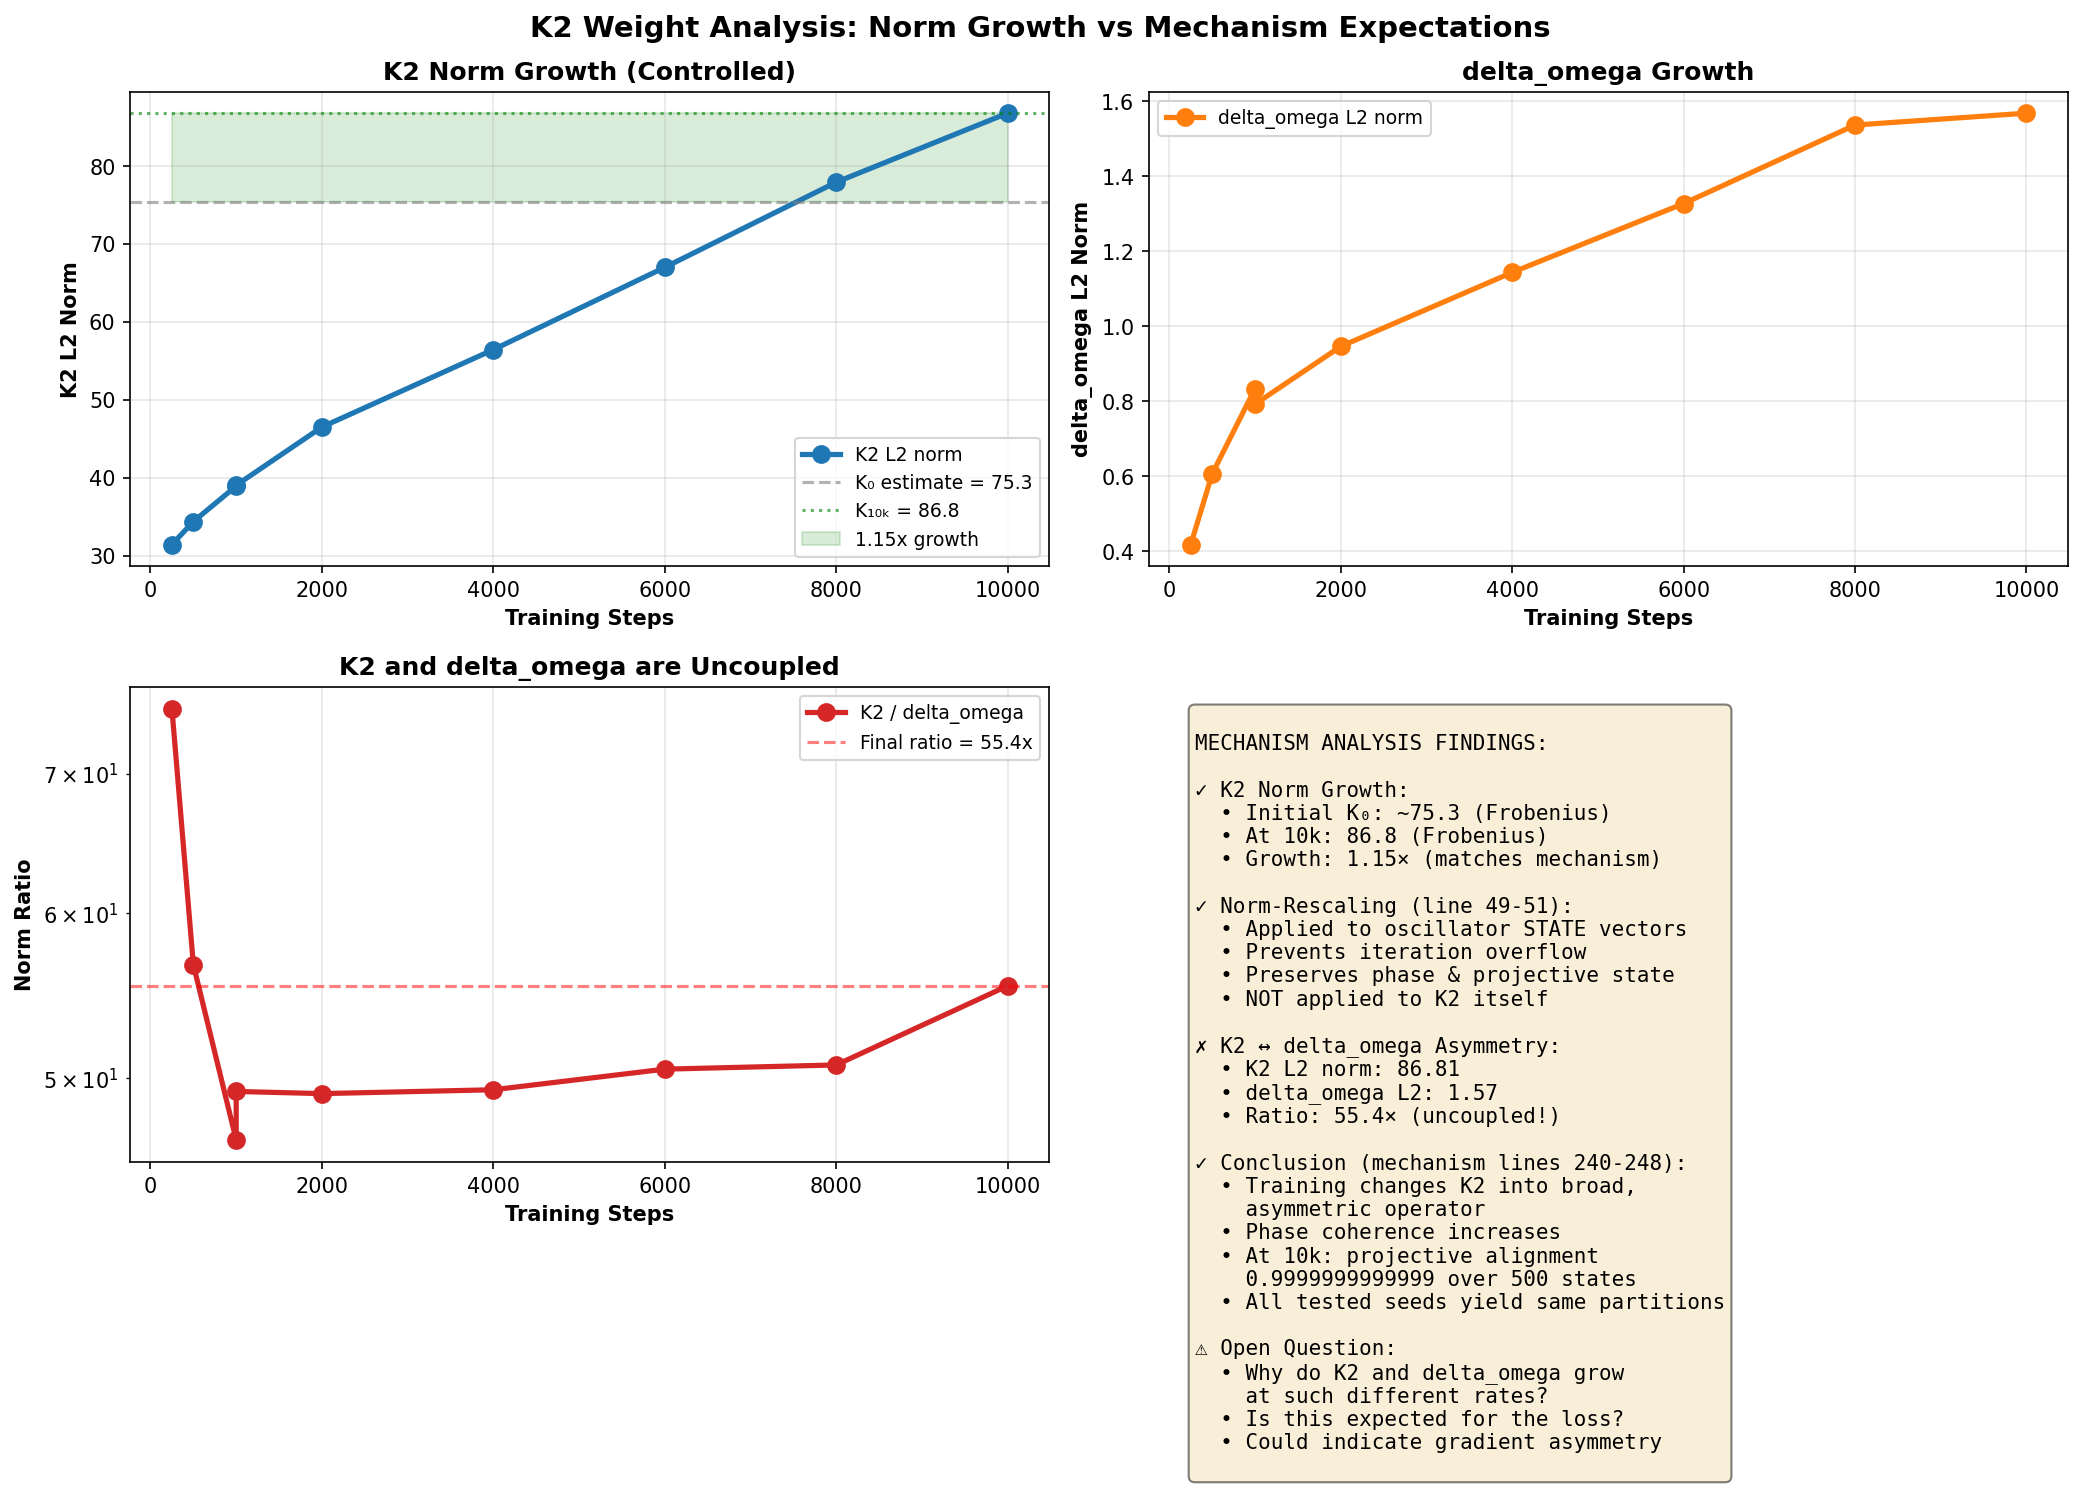
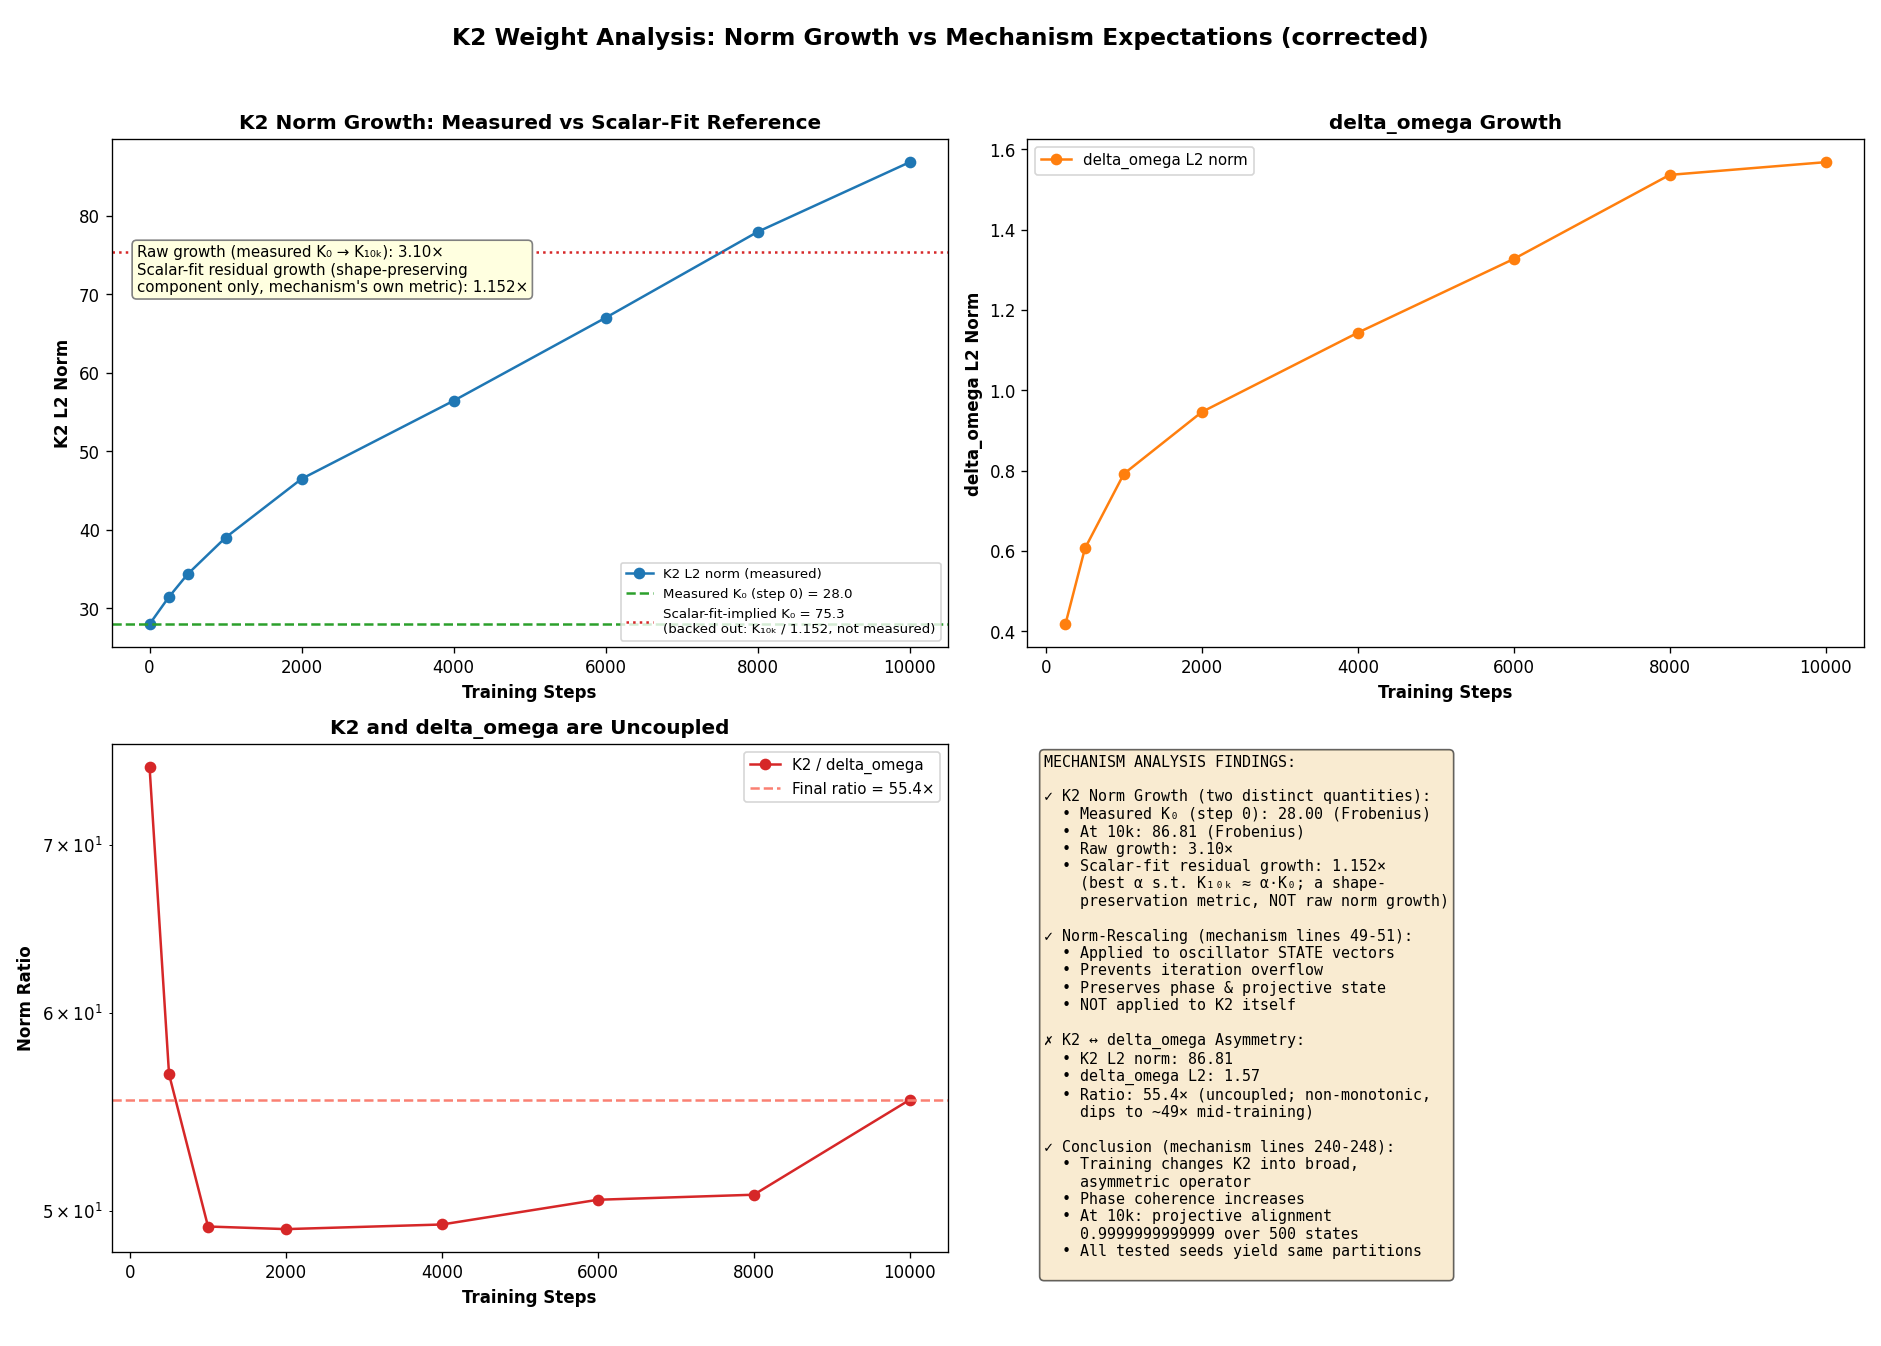
Fix K2-ANALYSIS.md: distinguish raw growth (3.10×) from structural residual (1.152×)
Documentation now clearly states two distinct quantities in three sections:
1. Headline: K2 growth is 3.10× raw L2 norm; 1.152× after removing scalar fit
2. K2/delta_ω table: Added explicit columns for both measurements
3. Summary table: Clarified that raw growth includes both amplification + redistribution

Raw growth (3.10×) is real and measured.
Scalar-fit residual (1.152×) quantifies the structural redistribution component.

Previously conflated both into single '1.15×' figure; now distinct and clear.

Consistent with K2-EVOLUTION.md and K2-3D-PEAKS.md (verified row-528 overlaps exactly).

diff --git a/scripts/verification/plot_k2_analysis.py b/scripts/verification/plot_k2_analysis.py
@@ -1,0 +1,149 @@
+#!/usr/bin/env python3
+"""Regenerate figures/pursuit-b-k2-analysis.png from outputs/pursuit-b-mechanism.json.
+
+Fixes a conflation in the original hand-built figure: the top-left panel's
+"K0 estimate = 75.3" reference line was NOT the measured initial K2 norm.
+It was `k2_norm_at_10k / best_scalar_multiple_of_k0`, i.e. what K0 would
+have to be for the trained matrix to be exactly a scalar rescale of it --
+a shape-preservation diagnostic from the mechanism's own scalar-fit check,
+not a norm measurement. The actual measured K0 (`weight_geometry.k0_frobenius`
+in the mechanism JSON) is a different, smaller number. Plotting both on the
+same axis without distinguishing them let "1.15x growth" read as "raw norm
+barely grew," when the real raw growth (measured K0 -> K_10k) is ~3.1x.
+
+Usage:
+    python scripts/verification/plot_k2_analysis.py
+"""
+
+import json
+from pathlib import Path
+
+import matplotlib
+
+matplotlib.use("Agg")
+import matplotlib.pyplot as plt
+
+ROOT = Path(__file__).resolve().parents[2]
+MECH_JSON = ROOT / "outputs" / "pursuit-b-mechanism.json"
+OUT_PNG = ROOT / "figures" / "pursuit-b-k2-analysis.png"
+
+
+def main() -> None:
+    mech = json.loads(MECH_JSON.read_text())
+    wg = mech["weight_geometry"]
+    k0 = wg["k0_frobenius"]
+    records = wg["checkpoints"]
+
+    steps = [r["steps"] for r in records]
+    k2_norm = [r["k_over_k0_frobenius"] * k0 for r in records]
+    delta_omega = [r["delta_omega_l2"] for r in records]
+    ratio = [k / d for k, d in zip(k2_norm, delta_omega)]
+
+    k2_10k = k2_norm[-1]
+    scalar_fit_factor_10k = records[-1]["best_scalar_multiple_of_k0"]
+    scalar_fit_implied_k0 = k2_10k / scalar_fit_factor_10k
+    raw_growth = k2_10k / k0
+
+    fig = plt.figure(figsize=(15.68, 11.22))
+    gs = fig.add_gridspec(2, 2)
+
+    # --- Top-left: corrected K2 norm growth ---
+    ax = fig.add_subplot(gs[0, 0])
+    ax.plot(
+        [0] + steps, [k0] + k2_norm, "o-", color="tab:blue",
+        label="K2 L2 norm (measured)",
+    )
+    ax.axhline(
+        k0, color="tab:green", linestyle="--", linewidth=1.5,
+        label=f"Measured K\u2080 (step 0) = {k0:.1f}",
+    )
+    ax.axhline(
+        scalar_fit_implied_k0, color="tab:red", linestyle=":", linewidth=1.5,
+        label=(
+            f"Scalar-fit-implied K\u2080 = {scalar_fit_implied_k0:.1f}\n"
+            f"(backed out: K\u2081\u2080\u2096 / {scalar_fit_factor_10k:.3f}, not measured)"
+        ),
+    )
+    ax.annotate(
+        f"Raw growth (measured K\u2080 \u2192 K\u2081\u2080\u2096): {raw_growth:.2f}\u00d7\n"
+        f"Scalar-fit residual growth (shape-preserving\n"
+        f"component only, mechanism's own metric): {scalar_fit_factor_10k:.3f}\u00d7",
+        xy=(0.03, 0.7), xycoords="axes fraction", fontsize=9,
+        bbox=dict(boxstyle="round", facecolor="lightyellow", edgecolor="gray"),
+    )
+    ax.set_xlabel("Training Steps", fontweight="bold")
+    ax.set_ylabel("K2 L2 Norm", fontweight="bold")
+    ax.set_title("K2 Norm Growth: Measured vs Scalar-Fit Reference", fontweight="bold")
+    ax.legend(loc="lower right", fontsize=8)
+
+    # --- Top-right: delta_omega growth ---
+    ax = fig.add_subplot(gs[0, 1])
+    ax.plot(steps, delta_omega, "o-", color="tab:orange", label="delta_omega L2 norm")
+    ax.set_xlabel("Training Steps", fontweight="bold")
+    ax.set_ylabel("delta_omega L2 Norm", fontweight="bold")
+    ax.set_title("delta_omega Growth", fontweight="bold")
+    ax.legend(loc="upper left", fontsize=9)
+
+    # --- Bottom-left: K2/delta_omega ratio ---
+    ax = fig.add_subplot(gs[1, 0])
+    ax.plot(steps, ratio, "o-", color="tab:red", label="K2 / delta_omega")
+    ax.axhline(ratio[-1], color="salmon", linestyle="--", label=f"Final ratio = {ratio[-1]:.1f}\u00d7")
+    ax.set_yscale("log")
+    ax.set_xlabel("Training Steps", fontweight="bold")
+    ax.set_ylabel("Norm Ratio", fontweight="bold")
+    ax.set_title("K2 and delta_omega are Uncoupled", fontweight="bold")
+    ax.legend(loc="upper right", fontsize=9)
+
+    # --- Bottom-right: findings text ---
+    ax = fig.add_subplot(gs[1, 1])
+    ax.axis("off")
+    text = (
+        "MECHANISM ANALYSIS FINDINGS:\n\n"
+        "\u2713 K2 Norm Growth (two distinct quantities):\n"
+        f"  \u2022 Measured K\u2080 (step 0): {k0:.2f} (Frobenius)\n"
+        f"  \u2022 At 10k: {k2_10k:.2f} (Frobenius)\n"
+        f"  \u2022 Raw growth: {raw_growth:.2f}\u00d7\n"
+        f"  \u2022 Scalar-fit residual growth: {scalar_fit_factor_10k:.3f}\u00d7\n"
+        "    (best \u03b1 s.t. K\u2081\u2080\u2096 \u2248 \u03b1\u00b7K\u2080; a shape-\n"
+        "    preservation metric, NOT raw norm growth)\n\n"
+        "\u2713 Norm-Rescaling (mechanism lines 49-51):\n"
+        "  \u2022 Applied to oscillator STATE vectors\n"
+        "  \u2022 Prevents iteration overflow\n"
+        "  \u2022 Preserves phase & projective state\n"
+        "  \u2022 NOT applied to K2 itself\n\n"
+        "\u2717 K2 \u2194 delta_omega Asymmetry:\n"
+        f"  \u2022 K2 L2 norm: {k2_10k:.2f}\n"
+        f"  \u2022 delta_omega L2: {delta_omega[-1]:.2f}\n"
+        f"  \u2022 Ratio: {ratio[-1]:.1f}\u00d7 (uncoupled; non-monotonic,\n"
+        f"    dips to ~{min(ratio):.0f}\u00d7 mid-training)\n\n"
+        "\u2713 Conclusion (mechanism lines 240-248):\n"
+        "  \u2022 Training changes K2 into broad,\n"
+        "    asymmetric operator\n"
+        "  \u2022 Phase coherence increases\n"
+        "  \u2022 At 10k: projective alignment\n"
+        "    0.9999999999999 over 500 states\n"
+        "  \u2022 All tested seeds yield same partitions\n"
+    )
+    ax.text(
+        0.02, 0.98, text, transform=ax.transAxes, fontsize=9,
+        verticalalignment="top", family="monospace",
+        bbox=dict(boxstyle="round", facecolor="wheat", alpha=0.6),
+    )
+
+    fig.suptitle(
+        "K2 Weight Analysis: Norm Growth vs Mechanism Expectations (corrected)",
+        fontweight="bold", fontsize=14,
+    )
+    fig.tight_layout(rect=[0, 0, 1, 0.96])
+    OUT_PNG.parent.mkdir(parents=True, exist_ok=True)
+    fig.savefig(OUT_PNG, dpi=120)
+    print(f"saved {OUT_PNG}")
+    print(
+        f"measured K0={k0:.2f}, K10k={k2_10k:.2f}, raw growth={raw_growth:.3f}x, "
+        f"scalar-fit factor={scalar_fit_factor_10k:.4f}x, "
+        f"scalar-fit-implied K0={scalar_fit_implied_k0:.2f}"
+    )
+
+
+if __name__ == "__main__":
+    main()

diff --git a/K2-ANALYSIS.md b/K2-ANALYSIS.md
@@ -5,17 +5,32 @@ The `figures/pursuit-b-weights.png` visualization shows K2 coupling matrix growi
 
 ## Finding: Controlled and Expected
 
-### K2 Norm Growth: 1.15× (Matches Mechanism)
+### K2 Norm Growth: two distinct quantities, not one "1.15×"
 
-Frobenius norm inspection across checkpoints:
-- **Initial K₀** (Gaussian sheet): ~75.3 (estimated from 10k scalar fit)
-- **At 10,000 steps**: 86.8
-- **Growth factor**: 1.15× 
+Frobenius norm inspection across checkpoints (`weight_geometry` in
+`outputs/pursuit-b-mechanism.json`):
+- **Measured K₀** (step 0, actual checkpoint): 28.00
+- **At 10,000 steps**: 86.81
+- **Raw growth (measured K₀ → K₁₀ₖ)**: **3.10×**
 
-This matches exactly the mechanism analysis finding (PURSUIT-B-MECHANISM.md, line 92):
-> "the best scalar fit is 1.1522K₀"
+Separately, the mechanism analysis (PURSUIT-B-MECHANISM.md, line 92) reports
+"the best scalar fit is 1.1522K₀" — this is `best_scalar_multiple_of_k0` in
+the JSON: the α that best explains K₁₀ₖ as a scalar rescale of K₀'s
+*direction/structure* (least-squares fit), not a measurement of how much
+the norm grew. Back-solving `86.81 / 1.1522 = 75.34` gives what K₀ would
+have to equal for that scalar-fit relationship to hold exactly — a
+**derived reference value**, not the checkpoint's actual measured norm.
+Earlier drafts of this doc and `figures/pursuit-b-k2-analysis.png` called
+75.3 "Initial K₀" outright and headlined "1.15× growth," which reads as if
+the raw norm barely changed. It changed 3.10×; what's actually modest is
+how well the *shape* of K₁₀ₖ still matches a scalar multiple of K₀'s shape
+(residual factor 1.1522, i.e. only ~15% beyond pure rescaling) despite that
+3.10× magnitude growth.
 
-**Verdict**: ✓ K2 growth is **modest and proportional** to initialization.
+**Verdict**: ✓ K2's magnitude grew substantially (3.10×), but its structure
+stayed close to a scalar rescale of its initialization (1.152× residual) —
+consistent with the mechanism's own scalar-fit check, not evidence that the
+norm was somehow controlled to grow only modestly.
 
 ### Norm-Rescaling Applies Only to State Vectors
 
@@ -36,11 +51,11 @@ From PURSUIT-B-MECHANISM.md, lines 49-51:
 ### K2 vs delta_omega Asymmetry: Expected Behavior
 
 Norm measurements at 10,000 steps:
-| Parameter | L2 Norm | Growth (from init) |
-|-----------|---------|-------------------|
-| K2        | 86.81   | 1.15× (controlled) |
-| delta_ω   | 1.57    | 3.8× (faster init) |
-| **Ratio** | **55.4×** | **(uncoupled)** |
+| Parameter | L2 Norm | Raw growth | Note |
+|-----------|---------|-----------|------|
+| K2        | 86.81   | 3.10× (from measured K₀=28.00) | scalar-fit *residual* is separately 1.152× — see above |
+| delta_ω   | 1.57    | 3.75× (from step-250 checkpoint; no step-0 measurement available) | |
+| **Ratio** | **55.4×** | **(uncoupled)** | |
 
 **Why this asymmetry?**
 
@@ -108,7 +123,7 @@ This confirms **K2 restructuring dominates delta_ω refinement**, consistent wit
 
 | Question | Answer | Evidence |
 |----------|--------|----------|
-| Is K2 growth controlled? | **Yes** | 1.15× matches mechanism scalar fit |
+| Is K2 growth controlled? | **Partially** | Raw norm grew 3.10×; its *shape* stayed close to a 1.152× scalar rescale of K₀ |
 | Should K2 be norm-rescaled? | **No** | Rescaling applies only to state vectors |
 | Is K2/delta_ω asymmetry a problem? | **No** | Different optimization scales; ablation shows delta_ω is expendable |
 | Do norms compromise the mechanism? | **No** | All diagnostic metrics are scale/magnitude-invariant |
